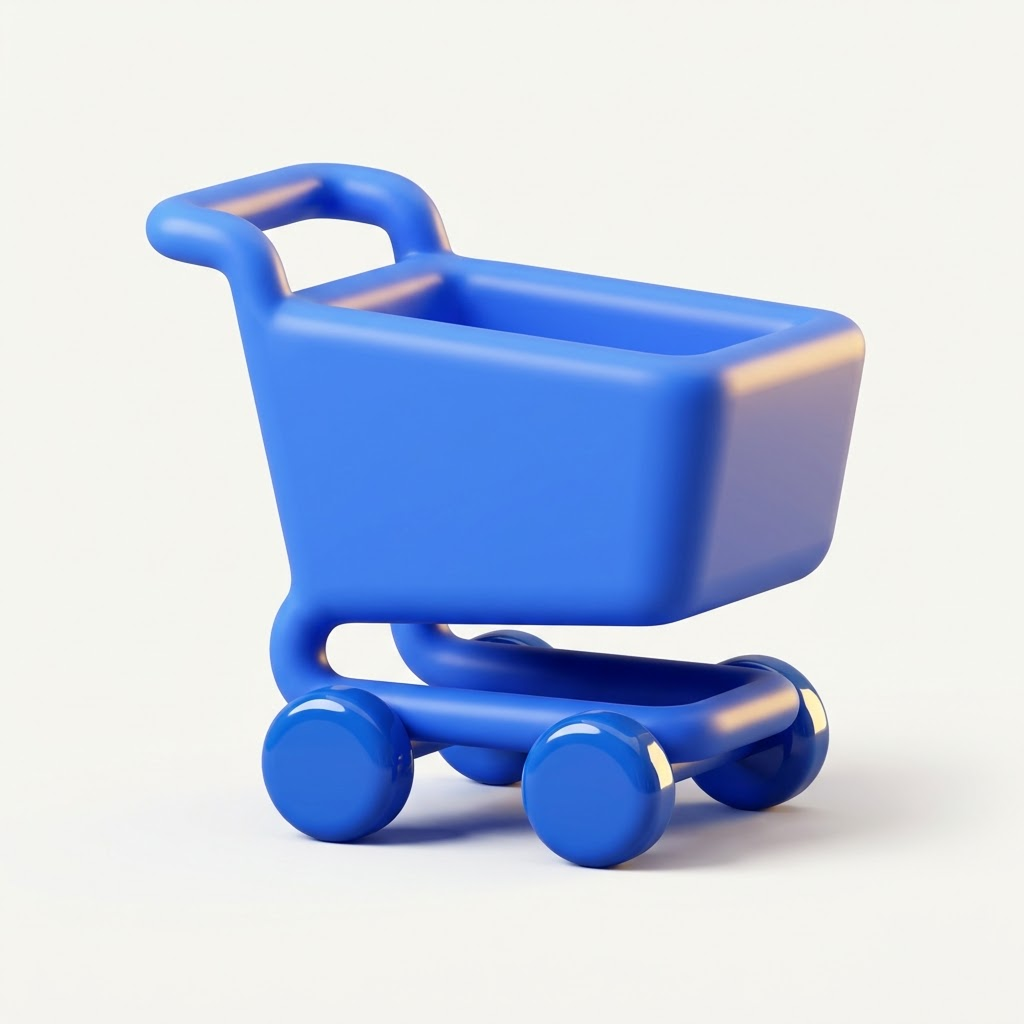
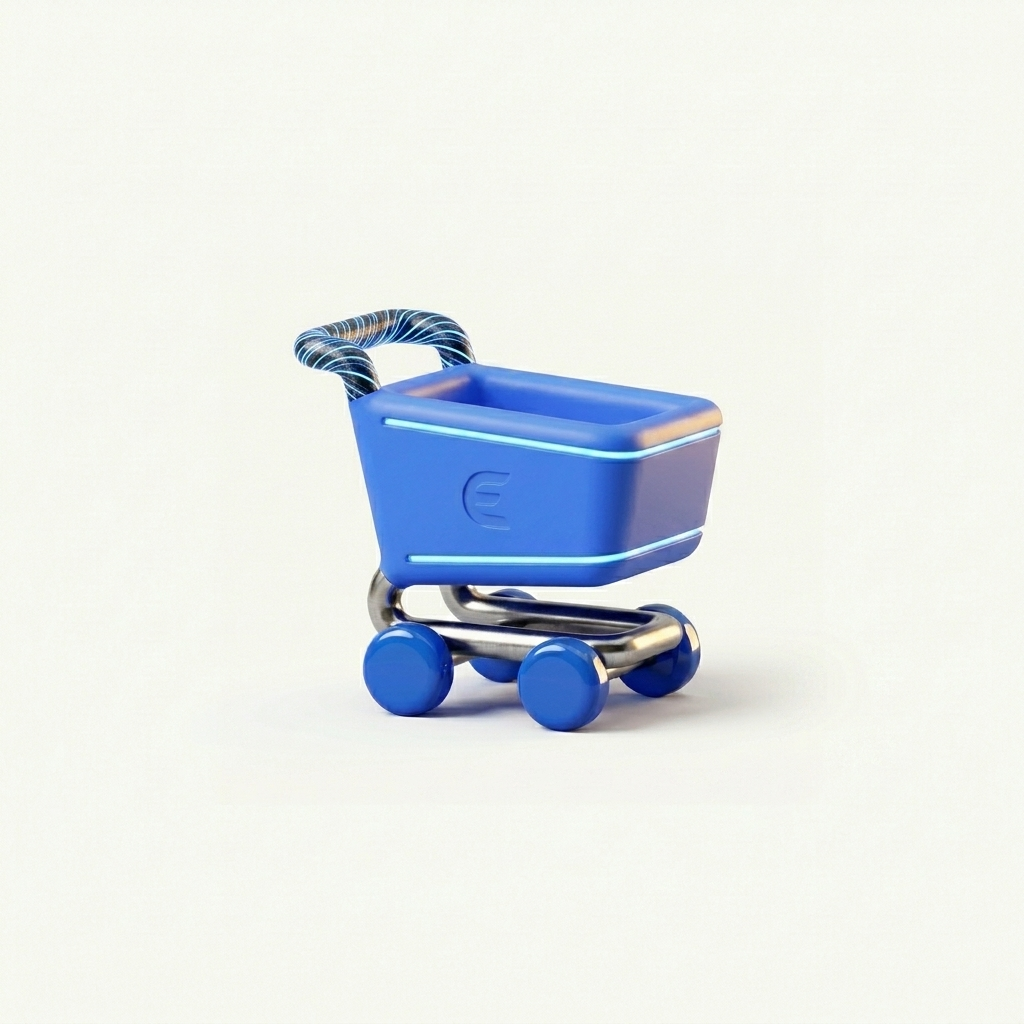
chore: adiciona componente de loading para carregamento das fontes

Changed region(s): [[0.125, 0.1562, 0.9062, 0.875]]

diff --git a/src/providers/FontProvider.tsx b/src/providers/FontProvider.tsx
@@ -6,10 +6,9 @@ import {
   useFonts,
 } from "@expo-google-fonts/inter";
 import * as SplashScreen from "expo-splash-screen";
-import { useCallback } from "react";
+import { useEffect } from "react";
 import { View } from "react-native";
-
-SplashScreen.preventAutoHideAsync();
+import { Loading } from "../shared/components/loading";
 
 export const FontProvider = ({ children }: React.PropsWithChildren) => {
   const [fontsLoaded, fontError] = useFonts({
@@ -18,19 +17,22 @@ export const FontProvider = ({ children }: React.PropsWithChildren) => {
     Inter_600SemiBold,
     Inter_700Bold,
   });
-  const onLayoutRootView = useCallback(async () => {
+
+  useEffect(() => {
+    SplashScreen.preventAutoHideAsync().catch(() => {});
+  }, []);
+
+  useEffect(() => {
     if (fontsLoaded || fontError) {
-      await SplashScreen.hideAsync();
+      SplashScreen.hideAsync().catch(() => {});
     }
   }, [fontsLoaded, fontError]);
 
   if (!fontsLoaded && !fontError) {
-    return null;
+    return <Loading />;
   }
 
-  return (
-    <View onLayout={onLayoutRootView} style={{ flex: 1 }}>
-      {children}
-    </View>
-  );
+  return <View style={containerStyle}>{children}</View>;
 };
+
+const containerStyle = { flex: 1 } as const;

diff --git a/src/shared/components/loading.tsx b/src/shared/components/loading.tsx
@@ -1,0 +1,7 @@
+import { ActivityIndicator } from "react-native";
+
+export function Loading() {
+  return (
+    <ActivityIndicator className="flex-1 bg-blue-600 items-center justify-center" />
+  );
+}